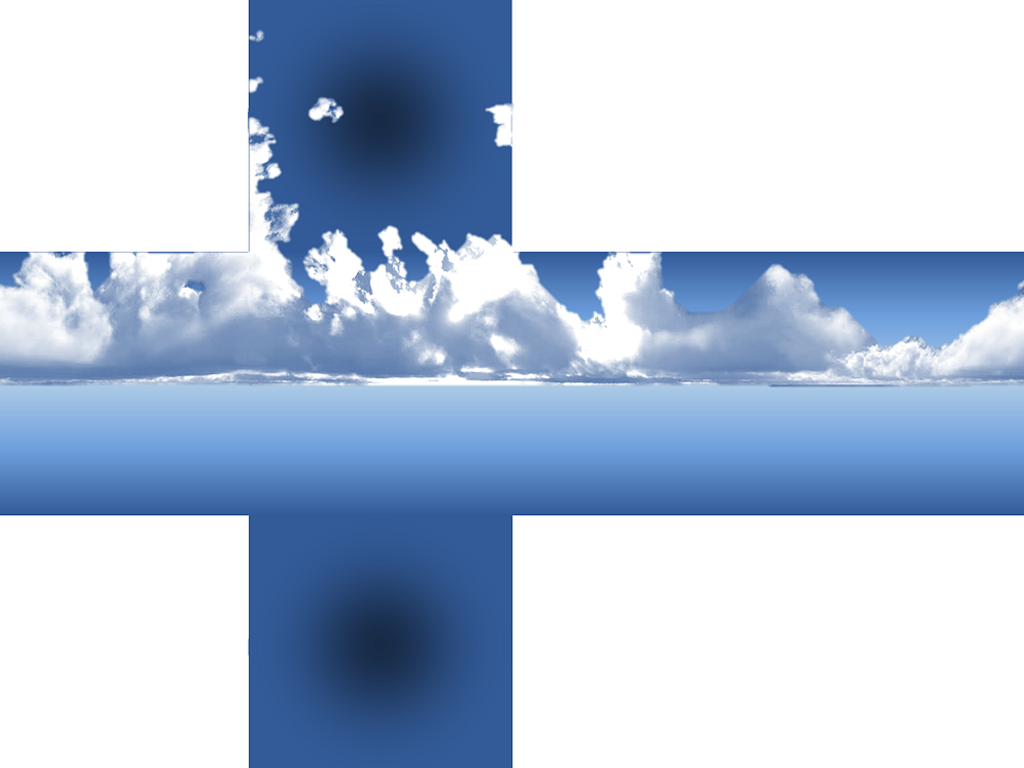
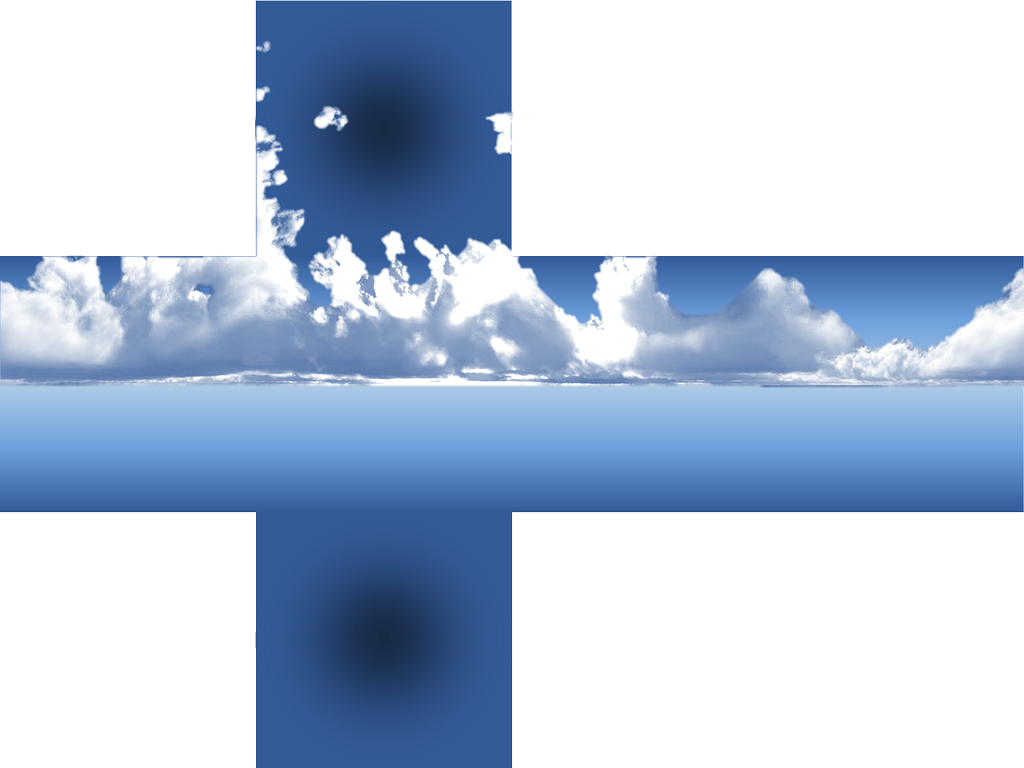
Fixed the CubeMap again

diff --git a/proj/MyCubeMap.js b/proj/MyCubeMap.js
@@ -16,40 +16,40 @@ class MyCubeMap extends CGFobject {
 
     initTextCoords() {
         this.positiveX.updateTexCoords([
-            3.0/4.0, 2.0/3.0,
-            2.0/4.0, 2.0/3.0,
-            3.0/4.0, 1.0/3.0,
-            2.0/4.0, 1.0/3.0
+            0.75, 0.65,
+            0.50, 0.65,
+            0.75, 0.34,
+            0.50, 0.34
             ]);
         this.positiveY.updateTexCoords([
-            1.0/4.0, 0.0/3.0,
-            2.0/4.0, 0.0/3.0,
-            1.0/4.0, 1.0/3.0,
-            2.0/4.0, 1.0/3.0
+            0.25, 0.00,
+            0.50, 0.00,
+            0.25, 0.34,
+            0.50, 0.34
         ]);
         this.positiveZ.updateTexCoords([
-            4.0/4.0, 2.0/3.0,
-            3.0/4.0, 2.0/3.0,
-            4.0/4.0, 1.0/3.0,
-            3.0/4.0, 1.0/3.0
+            1.00, 0.65,
+            0.75, 0.65,
+            1.00, 0.34,
+            0.75, 0.34
         ]);
         this.negativeX.updateTexCoords([
-            1.0/4.0, 2.0/3.0,
-            0.0/4.0, 2.0/3.0,
-            1.0/4.0, 1.0/3.0,
-            0.0/4.0, 1.0/3.0
+            0.25, 0.65,
+            0.00, 0.65,
+            0.25, 0.34,
+            0.00, 0.34
         ]);
         this.negativeY.updateTexCoords([
-            1.0/4.0, 2.0/3.0,
-            2.0/4.0, 2.0/3.0,
-            1.0/4.0, 3.0/3.0,
-            2.0/4.0, 3.0/3.0
+            0.25, 0.65,
+            0.50, 0.65,
+            0.25, 1.00,
+            0.50, 1.00
         ]);
         this.negativeZ.updateTexCoords([
-            1.0/4.0, 1.0/3.0,
-            2.0/4.0, 1.0/3.0,
-            1.0/4.0, 2.0/3.0,
-            2.0/4.0, 2.0/3.0
+            0.25, 0.34,
+            0.50, 0.34,
+            0.25, 0.65,
+            0.50, 0.65
         ]);
     }
 
